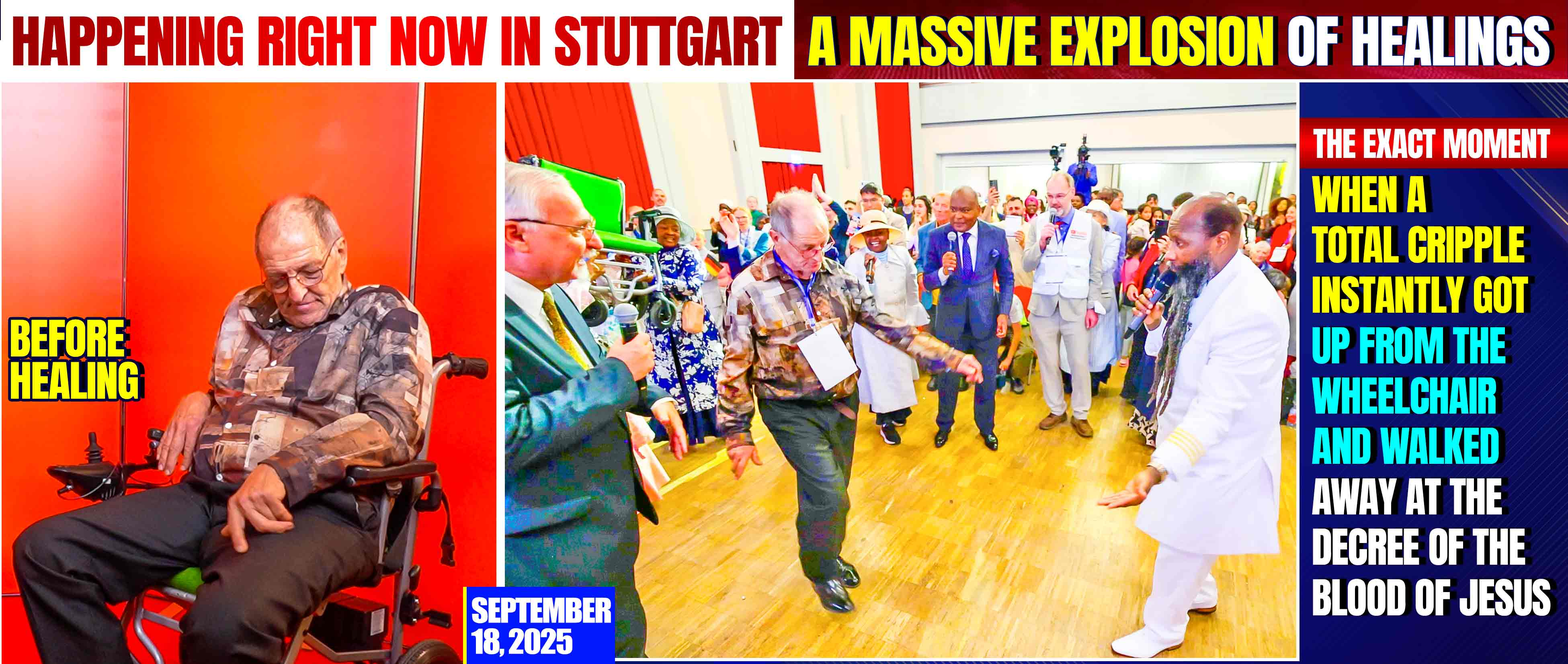
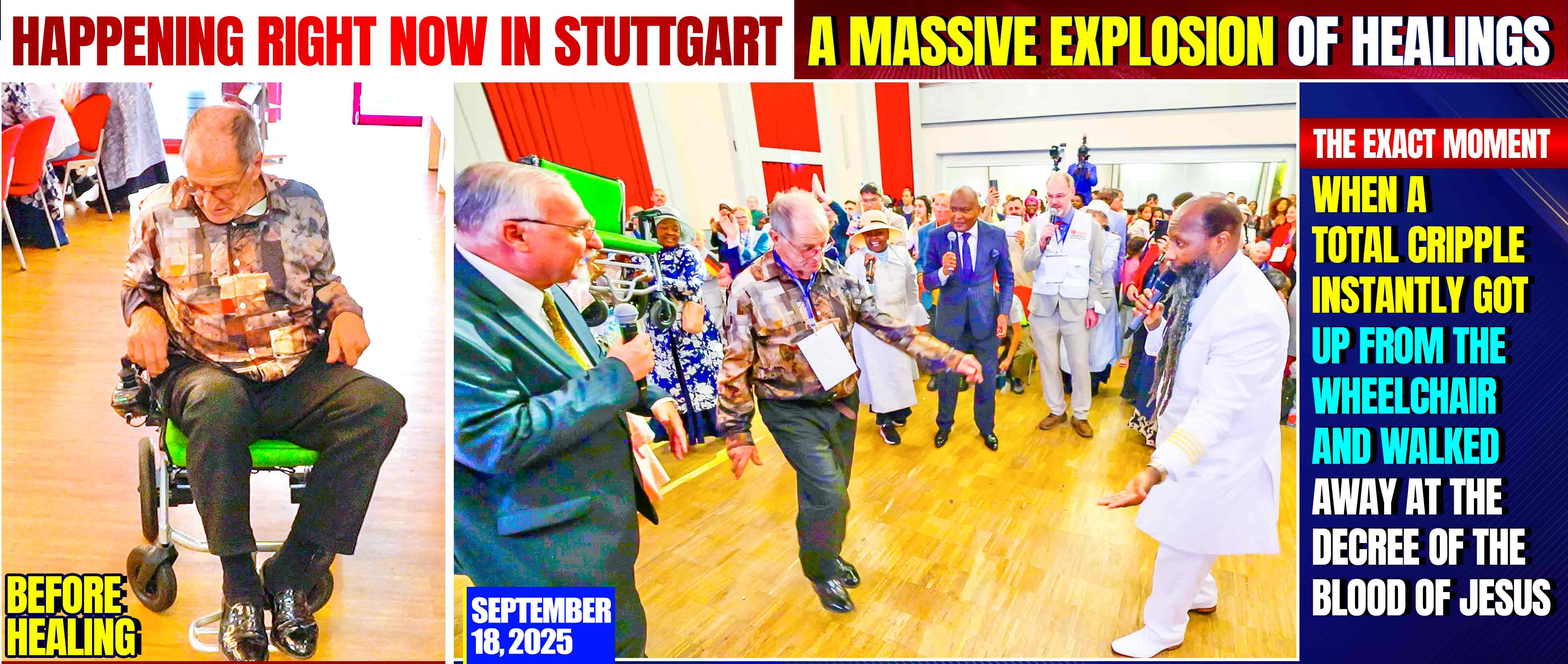
Arrival

Changed region(s): [[0.0, 0.1235, 0.3412, 1.0]]

diff --git a/index.html b/index.html
@@ -14,8 +14,7 @@
 
 <img class="slideshow" src= "https://pub-9f92551086574e82abebdc7b9c83cf92.r2.dev/Stuttgart%20healing%20Service/00.Skyline.jpg" alt="Unstable internet, please refresh the browser">
 <img class="slideshow" src= "https://pub-9f92551086574e82abebdc7b9c83cf92.r2.dev/Germany%202025/Stuttgart%20healing%20Service/Crowd-0.jpg" alt="Unstable internet, please refresh the browser">
-<img class="slideshow" src= " " alt="Unstable internet, please refresh the browser">
-<img class="slideshow" src= "https://pub-9f92551086574e82abebdc7b9c83cf92.r2.dev/Germany%202025/Stuttgart%20healing%20Service/Crowd-3.jpg" alt="Unstable internet, please refresh the browser">
+<img class="slideshow" src= "https://pub-9f92551086574e82abebdc7b9c83cf92.r2.dev/Germany%202025/Stuttgart%20healing%20Service/Crowd-0A.jpg" alt="Unstable internet, please refresh the browser">
 <img class="slideshow" src= "https://pub-9f92551086574e82abebdc7b9c83cf92.r2.dev/Germany%202025/Stuttgart%20healing%20Service/Crowd-1.jpg" alt="Unstable internet, please refresh the browser">
 <img class="slideshow" src= "https://pub-9f92551086574e82abebdc7b9c83cf92.r2.dev/Germany%202025/Stuttgart%20healing%20Service/Crowd-2.jpg" alt="Unstable internet, please refresh the browser">
 
@@ -24,7 +23,8 @@
 <img class="slideshow" src= "https://pub-9f92551086574e82abebdc7b9c83cf92.r2.dev/Germany%202025/Stuttgart%20healing%20Service/Cripple-3.jpg" alt="Unstable internet, please refresh the browser">
 <img class="slideshow" src= "https://pub-9f92551086574e82abebdc7b9c83cf92.r2.dev/Germany%202025/Stuttgart%20healing%20Service/Cripple-4.jpg" alt="Unstable internet, please refresh the browser">
 <img class="slideshow" src= "https://pub-9f92551086574e82abebdc7b9c83cf92.r2.dev/Germany%202025/Stuttgart%20healing%20Service/Cripple-5.jpg" alt="Unstable internet, please refresh the browser">
-
+<img class="slideshow" src= "https://pub-9f92551086574e82abebdc7b9c83cf92.r2.dev/Germany%202025/Stuttgart%20healing%20Service/Cripple-6.jpg" alt="Unstable internet, please refresh the browser">
+<img class="slideshow" src= "https://pub-9f92551086574e82abebdc7b9c83cf92.r2.dev/Germany%202025/Stuttgart%20healing%20Service/Cripple-7.jpg" alt="Unstable internet, please refresh the browser">
 
 
 <img class="slideshow" src= "https://pub-9f92551086574e82abebdc7b9c83cf92.r2.dev/Germany%202025/Stuttgart%20healing%20Service/Back-1.jpg" alt="Unstable internet, please refresh the browser">
